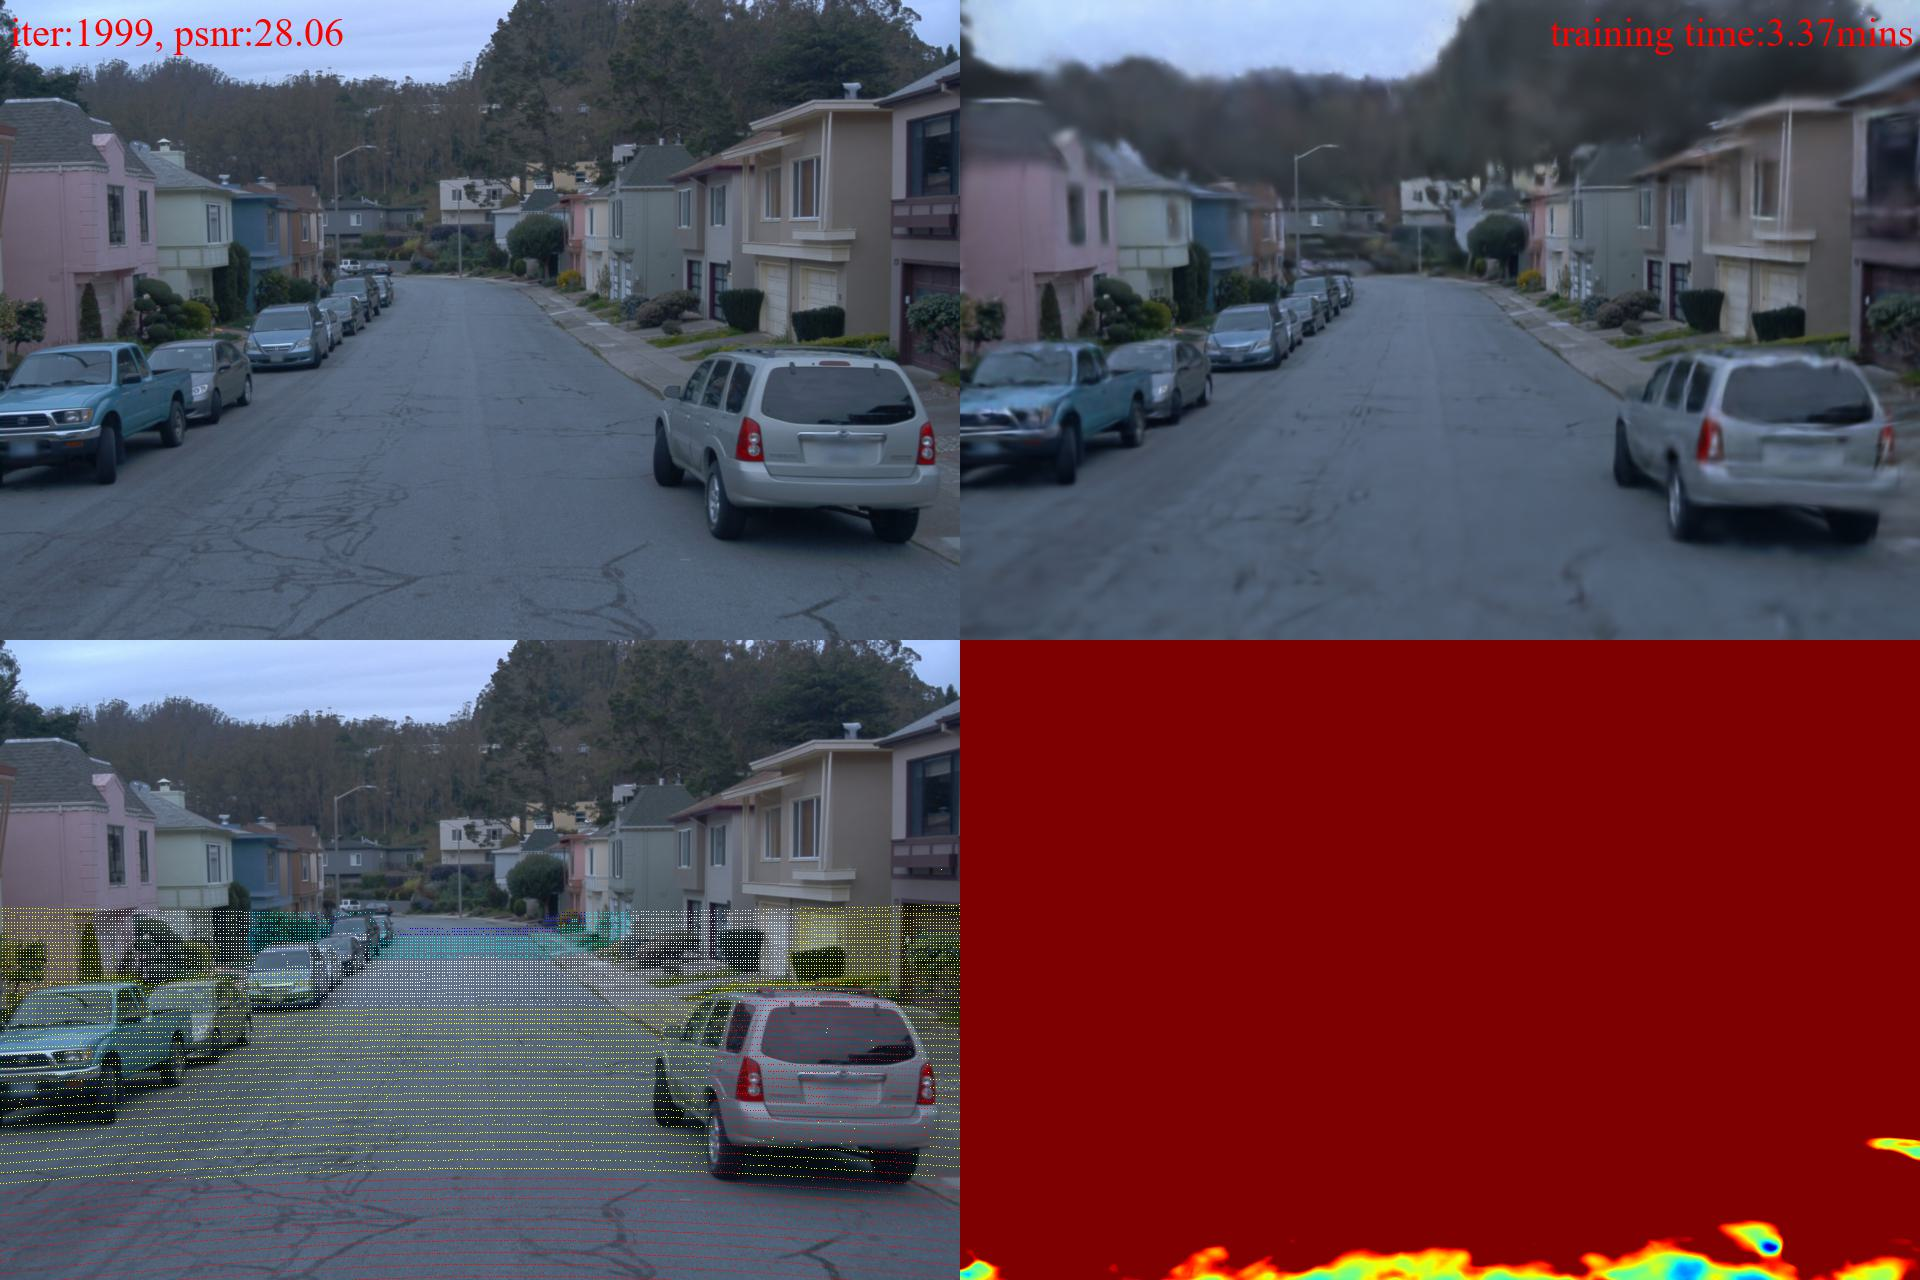
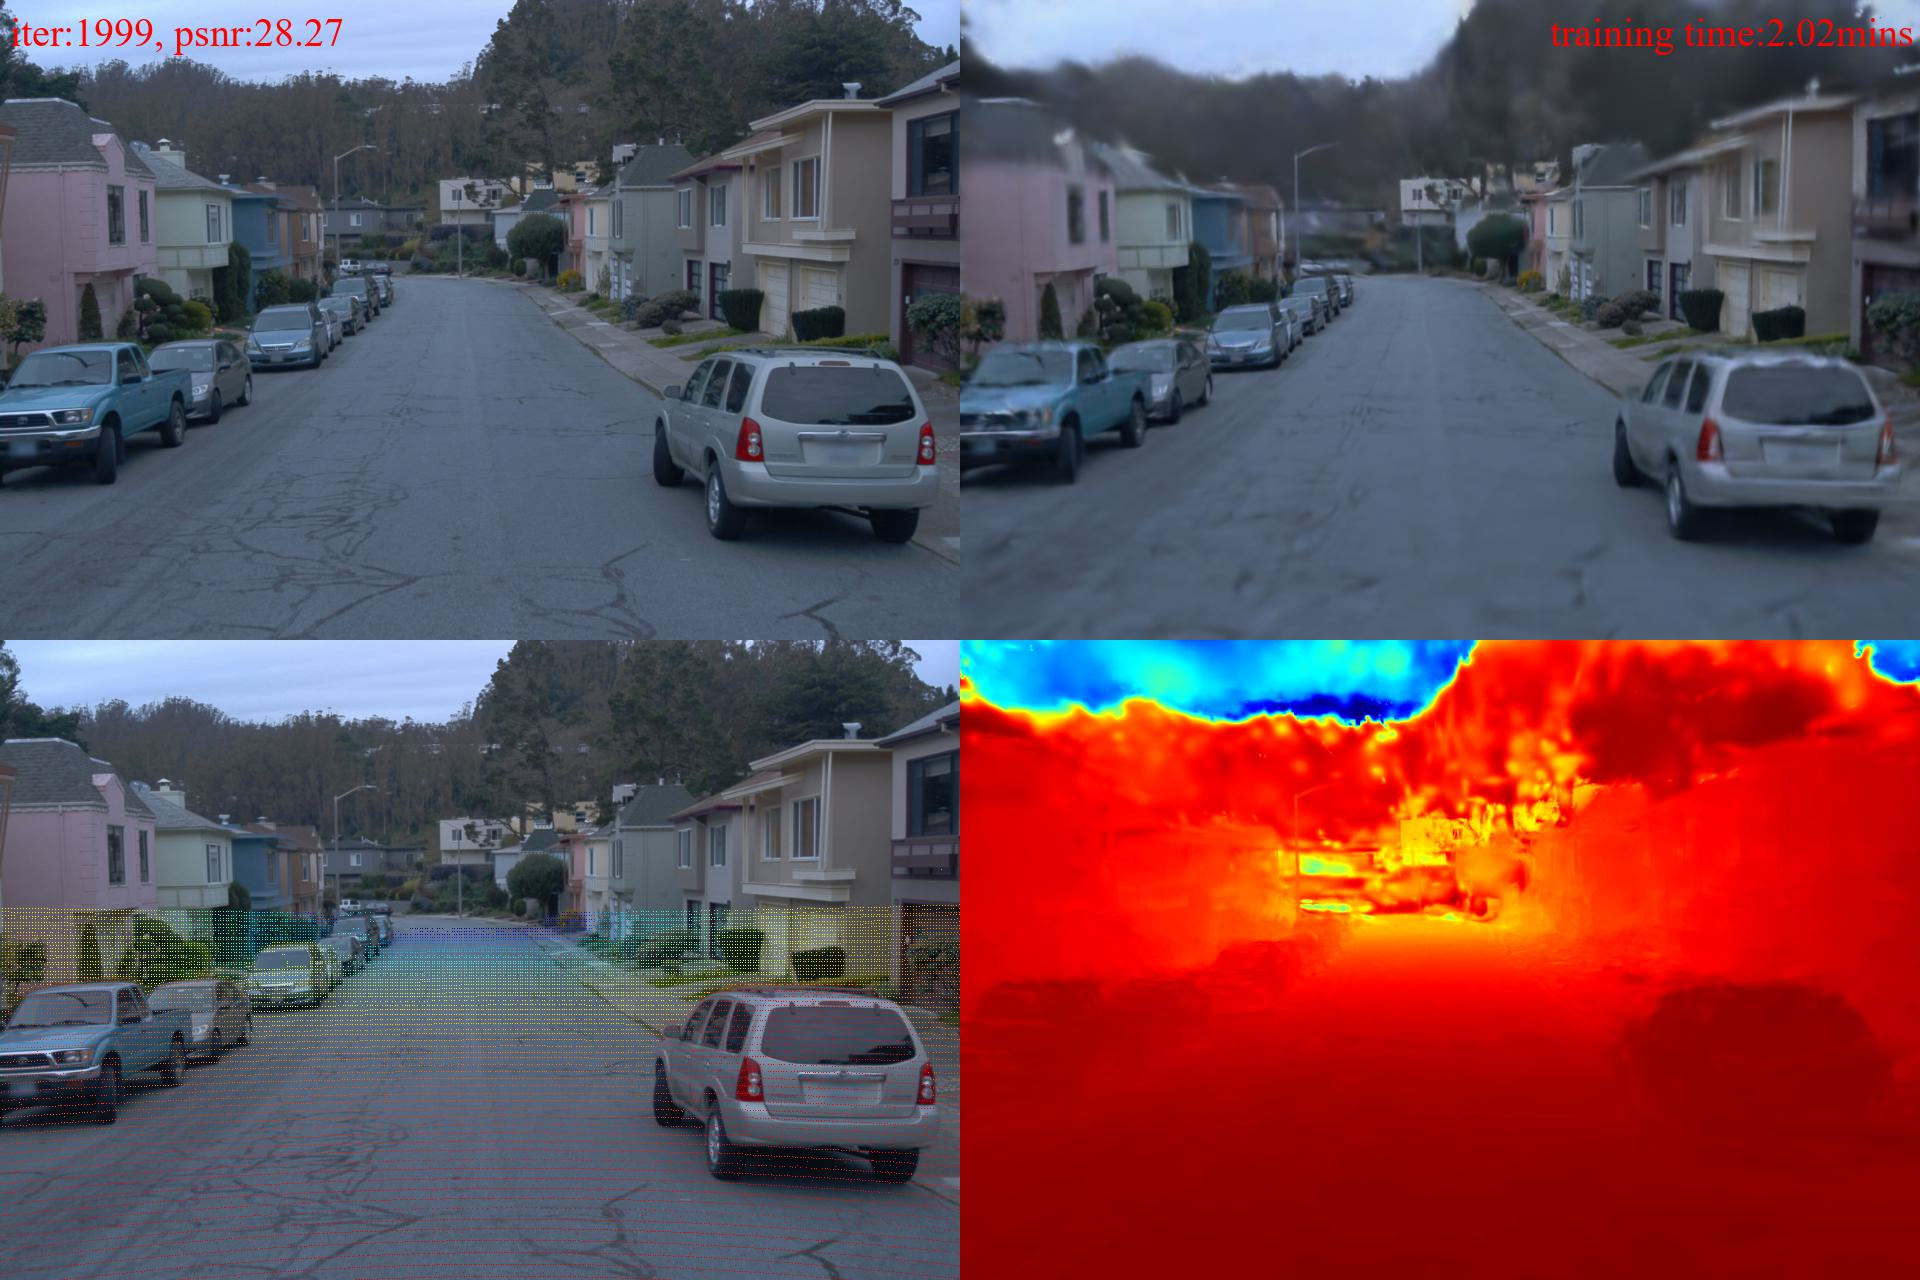
use waymo datasets

diff --git a/utils/scene_utils.py b/utils/scene_utils.py
@@ -30,24 +30,27 @@ def save_log(image,gt_image,depth,gt_depth,iteration,model_path,time_now):
     gt_depth = gt_depth.permute(1,2,0).cpu().numpy()
     mask = gt_depth > 0
     mask = np.squeeze(mask)
-    depth_np = (depth_np - np.min(depth_np)) / (np.max(depth_np) - np.min(depth_np)) * 255
-    gt_depth = (gt_depth - np.min(gt_depth)) / (np.max(gt_depth) - np.min(gt_depth)) * 255
+    depth_np = (depth_np - np.min(depth_np)) / (np.max(depth_np) - np.min(depth_np))*255
+    gt_depth = (gt_depth - np.min(gt_depth)) / (np.max(gt_depth) - np.min(gt_depth))*255
 
-   
     np_gt_depth_map = cv2.applyColorMap(cv2.convertScaleAbs(gt_depth, alpha=1.0), cv2.COLORMAP_JET)
+    np_depth_map = cv2.applyColorMap(cv2.convertScaleAbs(depth_np, alpha=1.0), cv2.COLORMAP_JET)
     np_gt_depth_map[~mask] = [255, 255, 255]
-    image_with_depth = gt_image.permute(1,2,0).cpu().numpy()
+    image_with_depth = gt_image.permute(1,2,0).cpu().numpy()*255
     image_with_depth[mask] = np_gt_depth_map[mask]
 
-    color_map = plt.get_cmap('jet')  # 'jet' 是一种常见的彩色映射，你也可以选择其他的
-    np_depth_map = color_map(depth_np).squeeze(2)[:, :, :3]
-    np_depth_map = depth_np.repeat(3, axis=2)
+    # # color_map = plt.get_cmap('jet')  # 'jet' 是一种常见的彩色映射，你也可以选择其他的
+    # # # np_depth_map = color_map(depth_np).squeeze(2)[:, :, :3]
 
-    image_np_rgb = np.concatenate((gt_np, image_np), axis=1)
+    # np_depth_map = depth_np.repeat(3, axis=2)
+    # np_gt_depth_map = gt_depth.repeat(3, axis=2)
+
+    image_np_rgb = np.concatenate((gt_np, image_np), axis=1)*255
     depth_np_rgb = np.concatenate((image_with_depth, np_depth_map), axis=1)
     all_image = np.concatenate((image_np_rgb, depth_np_rgb), axis=0)
 
-    image_with_labels = Image.fromarray((np.clip(all_image,0,1) * 255).astype('uint8'))  # 转换为8位图像
+    image_with_labels = Image.fromarray(all_image.astype('uint8'))  # 转换为8位图像
+    
     draw1 = ImageDraw.Draw(image_with_labels)
     font = ImageFont.truetype('./utils/TIMES.TTF', size=40)  # 请将路径替换为您选择的字体文件路径
     text_color = (255, 0, 0)  # 白色

diff --git a/train.py b/train.py
@@ -137,7 +137,7 @@ def training(dataset, opt, pipe, dataset_name, testing_iterations, saving_iterat
         if (iteration - 1) == debug_from:
             pipe.debug = True
         
-        voxel_visible_mask = None#prefilter_voxel(viewpoint_cam, gaussians, pipe,background)
+        voxel_visible_mask = prefilter_voxel(viewpoint_cam, gaussians, pipe,background)
         retain_grad = (iteration < opt.update_until and iteration >= 0)
         render_pkg = render(viewpoint_cam, gaussians, pipe, background, visible_mask=voxel_visible_mask, retain_grad=retain_grad)
         
@@ -153,6 +153,10 @@ def training(dataset, opt, pipe, dataset_name, testing_iterations, saving_iterat
         gt_depth = viewpoint_cam.depth_map.to(dtype = torch.float32, device = "cuda")
         depth_loss = compute_depth("l2", depth_pred, gt_depth) * opt.lambda_depth
         depth_loss = depth_loss.to(dtype = torch.float32)
+        path1 = os.path.join(dataset.model_path, "gt_depth.pth")
+        path2 = os.path.join(dataset.model_path, "pred_depth.pth")
+        torch.save(gt_depth, path1)
+        torch.save(depth_pred, path2)
 
         
         loss = (1.0 - opt.lambda_dssim) * Ll1 + opt.lambda_dssim * ssim_loss + 0.01*scaling_reg + depth_loss
@@ -181,8 +185,9 @@ def training(dataset, opt, pipe, dataset_name, testing_iterations, saving_iterat
             if (iteration < 10000 and iteration % 1000 == 999) \
                 or (iteration < 30000 and iteration % 2000 == 1999) \
                     or (iteration < 60000 and iteration %  3000 == 2999) \
-                        or iteration == 100:
+                        or iteration == 10:
                     save_log(image,gt_image,depth_pred, gt_depth, iteration,scene.model_path,timer.get_elapsed_time())
+
                     # render_training_image(scene, gaussians, [train_cams[round(len(train_cams)/2)]], render, pipe, background, iteration,timer.get_elapsed_time())
                     # if dataset.render_nvs:
                     #     phase=dataset.nvs_phase

diff --git a/submodules/depth-diff-gaussian-rasterization/diff_gaussian_rasterization/__init__.py b/submodules/depth-diff-gaussian-rasterization/diff_gaussian_rasterization/__init__.py
@@ -232,7 +232,7 @@ class GaussianRasterizer(nn.Module):
 
         # Invoke C++/CUDA rasterization routine
         with torch.no_grad():
-            radii = _C.rasterize_aussians_filter(means3D,
+            radii = _C.rasterize_gaussians_filter(means3D,
             scales,
             rotations,
             raster_settings.scale_modifier,
